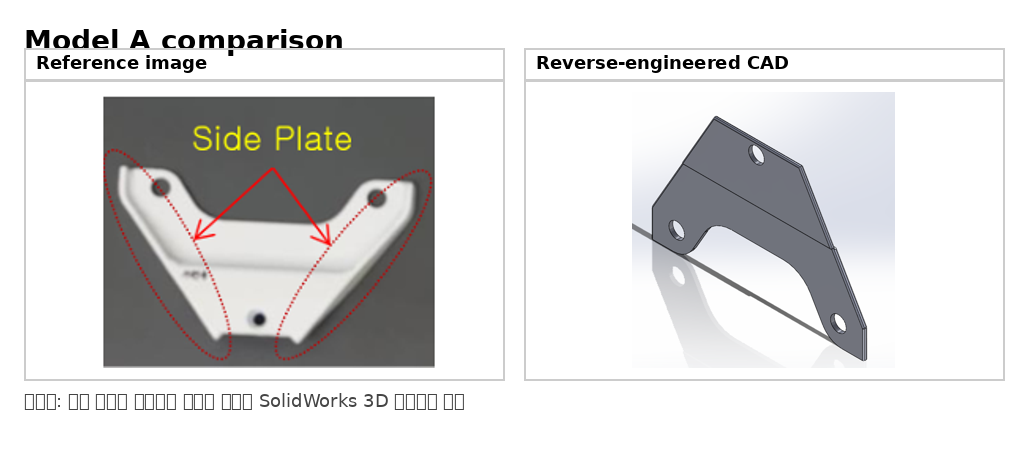
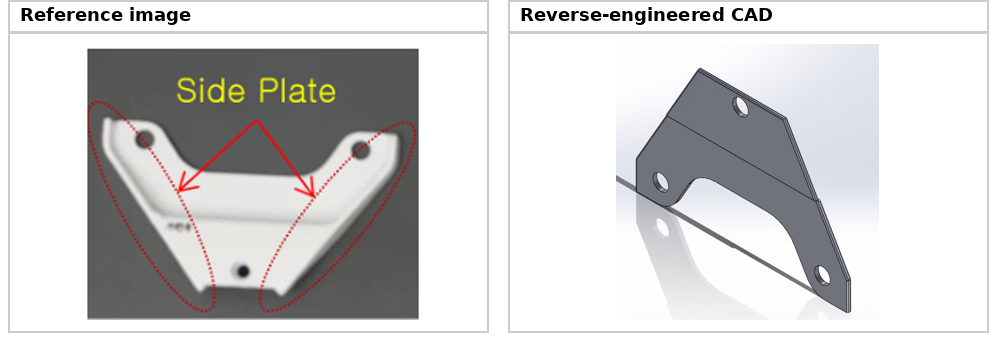
Remove unused images and polish portfolio layout (#1)
* Remove unused images

Delete 21 PNG files that are not referenced anywhere in index.html.

Claude-Session: https://claude.ai/code/session_015kg1RpG21NrgKKE9APKWHv

* Polish portfolio layout and bracket comparison images

- Crop broken-font caption and clipped title out of bracket_compare_A/B/C.png
- Stack evidence cards and media grids on narrow screens (fixes mobile horizontal overflow)
- Fill the empty footer with name and contact
- Use English sheet tags for all sections

Claude-Session: https://claude.ai/code/session_015kg1RpG21NrgKKE9APKWHv

---------

diff --git a/index.html b/index.html
@@ -375,6 +375,13 @@
     .main{margin-left:0; padding:40px 22px 90px;}
     .card-grid{grid-template-columns:1fr;}
     .hero h1{font-size:2rem;}
+    .media-grid, .media-grid.models{grid-template-columns:repeat(2, minmax(0, 1fr));}
+    .evidence-card{grid-template-columns:1fr;}
+  }
+  @media (max-width:560px){
+    .hero{flex-direction:column-reverse; gap:20px;}
+    .media-grid, .media-grid.models, .media-grid.videos, .analysis-pair-grid{grid-template-columns:1fr;}
+    .sec-head .sheet-tag{display:none;}
   }
 
   @media (prefers-reduced-motion: reduce){
@@ -459,8 +466,7 @@
       <div id="categories-root"></div>
 
       <footer>
-        <p><span class="fill-in"></span> </p>
-        <p></p>
+        <p>김민영 · kmy120329@gmail.com · 대구</p>
       </footer>
 
     </div>
@@ -738,6 +744,7 @@ const DATA = {
     },
     {
       id: "certs",
+      tag: "certificates",
       label: "자격증",
       note: "취득 자격",
       items: [
@@ -877,7 +884,7 @@ function categorySectionHTML(cat, sheetNo){
     <section id="${cat.id}">
       <div class="sec-head">
         <h2>${escapeHTML(cat.label)}</h2>
-        <span class="sheet-tag">SHEET ${num}<br>${escapeHTML(cat.label).toUpperCase()}</span>
+        <span class="sheet-tag">SHEET ${num}<br>${escapeHTML(cat.tag || cat.id).toUpperCase()}</span>
       </div>
       <div class="dim-divider"><span class="dim-label">${num} — ${escapeHTML(cat.note)}</span></div>
       <div class="card-grid ${cat.id === "research" ? "research-grid" : ""}">${itemsHTML}</div>
